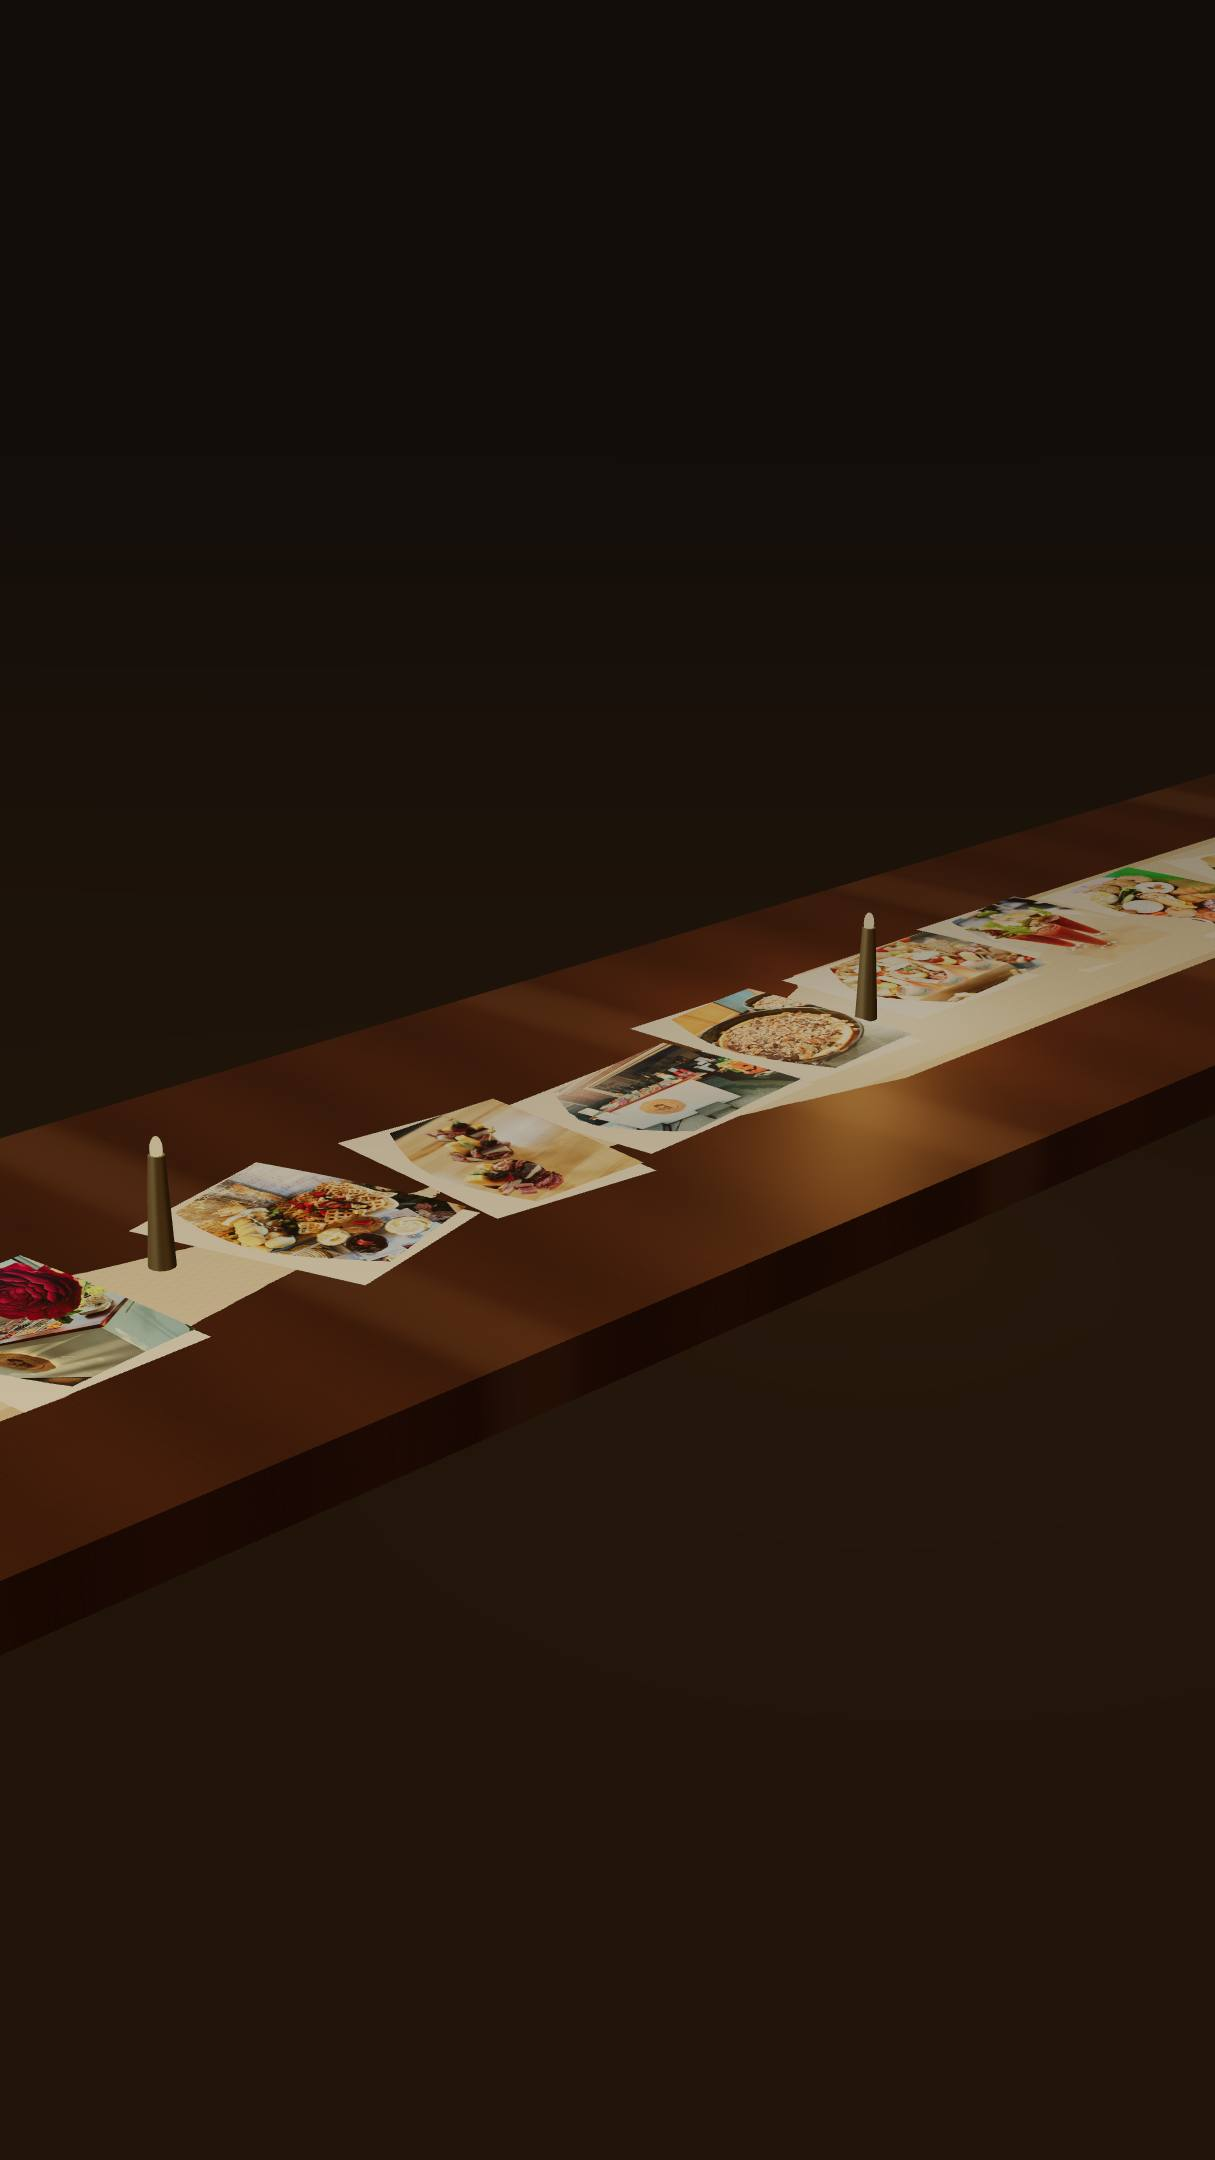
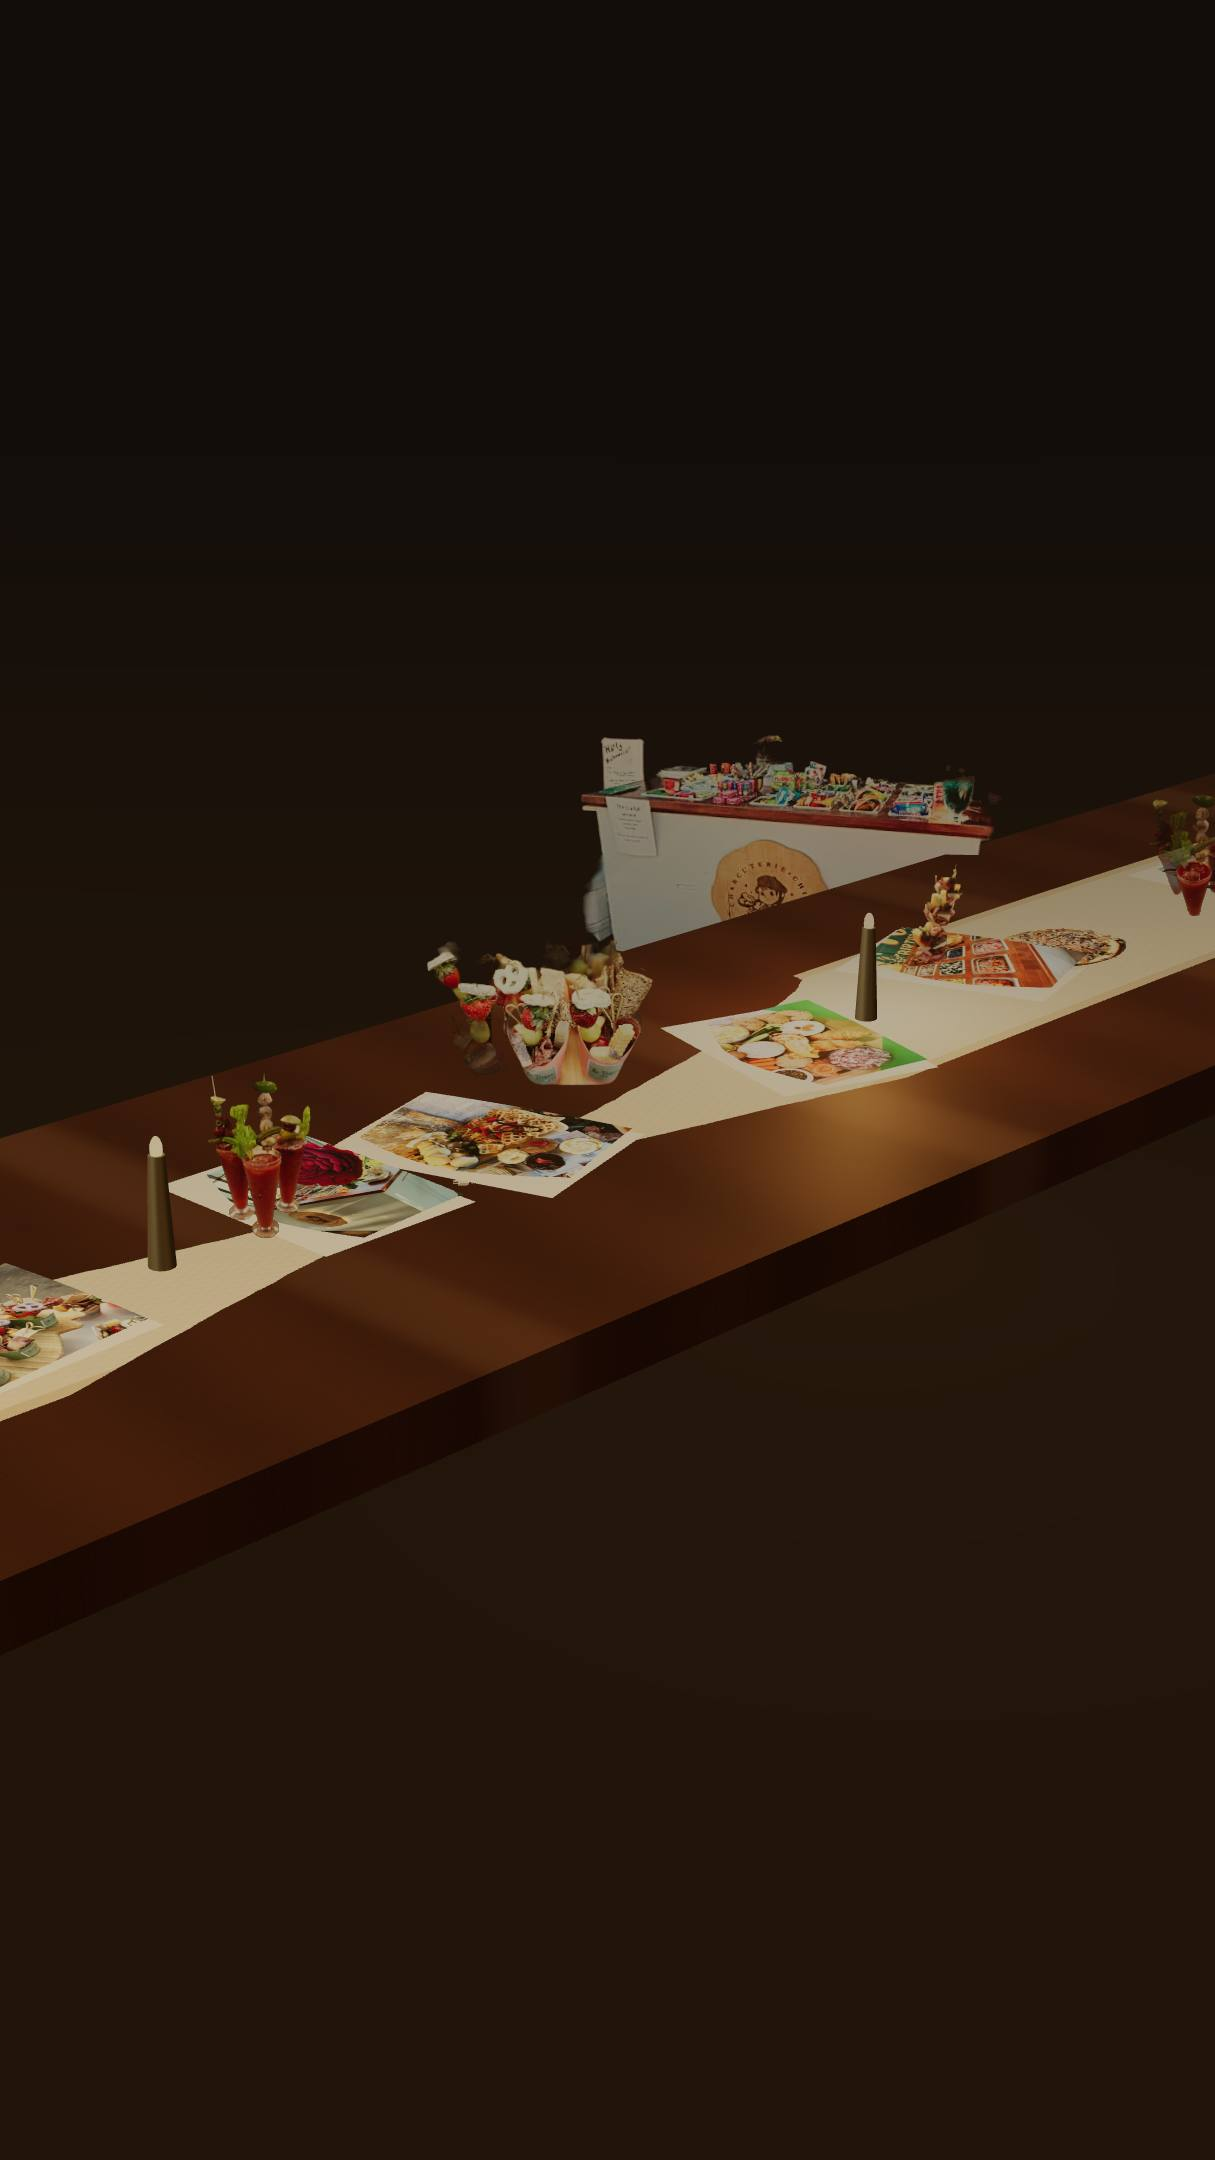
chick-goodies: her real food stands on The Table as cut-outs
Eleven of her own photographs, backgrounds removed with a local model
(rembg, nothing generated), are the objects on the table now: the cones
on their riser under the Tables station, the Bloody Marys and the cart
itself behind the table under the Cart station, the jars and mimosas
under Tricia, one cone past the candle under The number, and cones seen
from the door. Each stands on an upright plane that turns to face the
camera around the vertical axis only, casts its own silhouette as shadow,
and is lit by the room. Three boards lie flat on the runner; seven prints
sit between the objects. Cut-outs are WebP with alpha, 674 KB in all.

Garrett's reference for the feel is oryzo.ai by Lusion: one real object
large in the frame, dark warm air around it. Stills re-rendered; the
proposal's picture of The Table refreshed; PROMPT-OPUS-2.md and plan
11.3 updated.

Claude-Session: https://claude.ai/code/session_01PfAEN5U28uDvKpTKnQ34jK

Changed region(s): [[0.0, 0.3412, 1.0, 0.6514]]

diff --git a/clients/chick-goodies/samples/sample-3-studio/table-cinematic.js b/clients/chick-goodies/samples/sample-3-studio/table-cinematic.js
@@ -228,27 +228,18 @@ for (const x of [1.2, -4.6, 6.9]){
 }
 
 /* ---------- her photographs, as prints lying on the table ---------- */
-/* Real event photos, sixteen of them, the length of the table, with a pair
- * under every camera station. Angled, modest in size and lit by the room,
- * which is why 480px files read as objects here instead of as soft wallpaper. */
+/* Real event photos as prints, between the objects. Angled, modest in size and
+ * lit by the room, which is why 480px files read as objects here instead of as
+ * soft wallpaper. */
 const loader = new T.TextureLoader();
 const prints = [
-  { f:'table-03.jpg',  x:-11.2, w:1.05 },  // 480x640
-  { f:'knot-4.jpg',    x: -9.7, w:1.45 },  // 945x720
-  { f:'graze-01.jpg',  x: -8.3, w:1.05 },  // 480x640
-  { f:'knot-3.jpg',    x: -7.0, w:1.45 },  // 945x720
-  { f:'board-02.jpg',  x: -5.6, w:1.05 },  // 480x640
-  { f:'table-01.jpg',  x: -3.7, w:1.05 },  // 480x640
-  { f:'graze-02.jpg',  x: -2.3, w:1.05 },  // 480x640
-  { f:'cart-640.jpg',  x: -0.9, w:1.45 },  // 640x480
-  { f:'sweets-01.jpg', x:  0.5, w:1.05 },  // 480x640
-  { f:'knot-2.jpg',    x:  2.2, w:1.45 },  // 945x720
-  { f:'table-02.jpg',  x:  3.6, w:1.05 },  // 480x640
-  { f:'boards-01.jpg', x:  4.9, w:1.05 },  // 480x640
-  { f:'sips-02.jpg',   x:  6.2, w:1.05 },  // 480x640
-  { f:'graze-03.jpg',  x:  7.8, w:1.05 },  // 480x640
-  { f:'board-01.jpg',  x:  9.2, w:1.05 },  // 480x640
-  { f:'wide-640.jpg',  x: 10.7, w:1.45 },  // 640x452
+  { f:'table-03.jpg',  x:-11.4, w:1.05 },
+  { f:'knot-3.jpg',    x: -5.9, w:1.45 },
+  { f:'board-02.jpg',  x: -3.4, w:1.00 },
+  { f:'table-01.jpg',  x: -2.2, w:1.05 },
+  { f:'boards-01.jpg', x:  0.4, w:1.05 },
+  { f:'candy-01.jpg',  x:  2.6, w:1.05 },
+  { f:'board-01.jpg',  x:  5.9, w:1.05 },
 ];
 for (const p of prints){
   loader.load('img/' + p.f, tex => {
@@ -277,6 +268,63 @@ for (const p of prints){
     edge.position.y -= .004; edge.receiveShadow = true;
     scene.add(edge);
   });
+}
+
+/* ---------- her food, cut out of her photographs and stood on the table ---------- */
+/* No models. Each object is one of her own photographs with the background
+ * removed, on an upright plane that turns to face the camera (around the
+ * vertical axis only, so it stays standing), casting its own silhouette as
+ * shadow. One sits under every camera station, the way a product site puts
+ * one real object in the middle of the frame. The cart stands on the floor
+ * behind the table. Three boards lie flat on the runner. */
+const standing = [];
+const cutouts = [
+  { f:'knot-2.webp',    x: -1.6, z:-.15, h:1.10 },  // cones, seen from the door
+  { f:'table-02.webp',  x: -4.0, z: .15, h: .95 },  // bloody marys
+  { f:'knot-4.webp',    x: -7.4, z:-.10, h:1.25 },  // station 2: the cones on their riser
+  { f:'sips-02.webp',   x:  4.7, z: .25, h:1.00 },  // station 3: bloody marys
+  { f:'cart-640.webp',  x:  4.2, z:-3.1, h:2.55, floor:true },  // station 3: the cart itself
+  { f:'graze-03.webp',  x:  7.7, z:-.20, h: .90 },  // jars
+  { f:'sips-01.webp',   x:  9.0, z: .10, h: .95 },  // station 4: mimosas
+  { f:'graze-02.webp',  x:  2.45,z:-.35, h: .75 },  // station 5: one cone past the candle, out of the close lens
+];
+const flats = [
+  { f:'wide-640.webp',  x: -9.0, w:1.50 },  // the board, from above
+  { f:'sweets-01.webp', x:  3.4, w:1.10 },  // the skillet
+  { f:'graze-01.webp',  x:10.0, w:1.30 },   // candy trays
+];
+const cutMaterial = tex => new T.MeshStandardMaterial({ map:tex, transparent:true, alphaTest:.35, roughness:.9, metalness:0, side:T.DoubleSide });
+const cutDepth = tex => new T.MeshDepthMaterial({ depthPacking:T.RGBADepthPacking, map:tex, alphaTest:.35 });
+for (const c of cutouts){
+  loader.load('img/cut/' + c.f, tex => {
+    tex.colorSpace = T.SRGBColorSpace;
+    tex.anisotropy = renderer.capabilities.getMaxAnisotropy();
+    const ratio = (tex.image && tex.image.width / tex.image.height) || 1;
+    const m = new T.Mesh(new T.PlaneGeometry(c.h * ratio, c.h), cutMaterial(tex));
+    const base = c.floor ? -1.32 : .176;
+    m.position.set(c.x, base + c.h / 2, c.z);
+    m.castShadow = true;
+    m.customDepthMaterial = cutDepth(tex);
+    scene.add(m); standing.push(m);
+    faceCamera();
+  });
+}
+for (const c of flats){
+  loader.load('img/cut/' + c.f, tex => {
+    tex.colorSpace = T.SRGBColorSpace;
+    tex.anisotropy = renderer.capabilities.getMaxAnisotropy();
+    const ratio = (tex.image && tex.image.height / tex.image.width) || 1;
+    const m = new T.Mesh(new T.PlaneGeometry(c.w, c.w * ratio), cutMaterial(tex));
+    m.rotation.x = -Math.PI/2;
+    m.rotation.z = (rnd()-.5) * .5;
+    m.position.set(c.x, .21, (rnd()-.5) * .3);
+    m.castShadow = true; m.receiveShadow = true;
+    m.customDepthMaterial = cutDepth(tex);
+    scene.add(m);
+  });
+}
+function faceCamera(){
+  for (const m of standing) m.rotation.y = Math.atan2(camera.position.x - m.position.x, camera.position.z - m.position.z);
 }
 
 /* ---------- the five stations: this is the navigation ---------- */
@@ -309,6 +357,7 @@ function applyCamera(){
   // the head moves a little with the cursor; never enough to break the frame
   camera.position.set(camPos.x + pointer.x * .55, camPos.y + pointer.y * .26, camPos.z);
   camera.lookAt(camTgt);
+  faceCamera();
   const s = Math.round(station) + 1;
   if (s !== metrics.station){
     metrics.station = s;

diff --git a/clients/chick-goodies/PLAN-CONTENT-STRATEGY.md b/clients/chick-goodies/PLAN-CONTENT-STRATEGY.md
@@ -771,7 +771,7 @@ A Three.js WebGL one-page experience served under sample 3 at `/table.html`: a l
 6. The 390 nav overflow and the 24px desktop overflow fixed, then the six gates from 9.5 run on table.html at every width.
 7. H1 back to her verbatim tagline: "Elegance without the cost." The added "All the" is not hers. `[F: taglines]`
 8. Photo restoration for the cards under the owner's rule. The cards are small, so 480px sources are fine.
-9. Decision, 2026-09-17 evening: the modeled food (matcap spheres on plates and boards) is gone. Garrett saw it up close in stations 01 and 02 and called it cartoonish, which it was: flat-painted primitives beside real photographs. The table now dresses with sixteen of her photographs as prints, a pair under every camera station, plus candles and four glasses at the far ends. The phone and loading stills were re-rendered from the new scene. No food geometry comes back; if the table needs more life, it gets more of her photographs, not models.
+9. Decision, 2026-09-17 evening: the modeled food (matcap spheres on plates and boards) is gone. Garrett saw it up close in stations 01 and 02 and called it cartoonish, which it was: flat-painted primitives beside real photographs. The table now dresses with her photographs: eleven cut-outs of her own food and cart (`img/cut/*.webp`, backgrounds removed with a local model, nothing generated) stand upright and turn to face the camera, one under every station, plus three boards lying flat, seven prints, candles and four glasses at the far ends. Garrett's reference for the target feel is oryzo.ai (Lusion): one real object large in the frame, dark warm air, big type. The phone and loading stills were re-rendered from the new scene. No food geometry comes back; if the table needs more life, it gets more of her photographs, not models.
 
 ### 11.4 Price and positioning (recommendation; Garrett says the final number to the client)
 

diff --git a/clients/chick-goodies/PROMPT-OPUS-2.md b/clients/chick-goodies/PROMPT-OPUS-2.md
@@ -31,7 +31,7 @@ Work in `sample-3-studio`. It deploys with the branch. Order, by plan 11.3 item 
 8. Item 8: restore the card photos under the owner's rule; commit originals first.
 9. Gates G1 to G6 on `table.html` and the restyled pages, at 390, 768, 1440, 1920.
 
-No modeled food on the table, abstract or otherwise: Garrett rejected the sphere-and-board dressing as cartoonish on 2026-09-17. The food is her photographs, laid on the runner as prints (sixteen of them, a pair under every camera station); the rest of the dressing is candles and a few glasses at the far ends. `table-cinematic.js` and the two stills in `img/` carry this already. Never photoreal models, never generated food, never bring the props back.
+No modeled food on the table, abstract or otherwise: Garrett rejected the sphere-and-board dressing as cartoonish on 2026-09-17. The food is her photographs: eleven cut-outs (`img/cut/*.webp`, her boards, cones, drinks, the skillet and the cart, backgrounds removed locally, nothing generated) stand upright on the table and turn to face the camera, one under every station, with three boards lying flat and seven prints between them. The reference Garrett set for the feel is oryzo.ai by Lusion: one real object large in the frame, dark warm air around it, big type. `table-cinematic.js` and the two stills in `img/` carry this already. Never photoreal models, never generated food, never bring the props back.
 
 ## Workstream C: send-ready checklist
 
